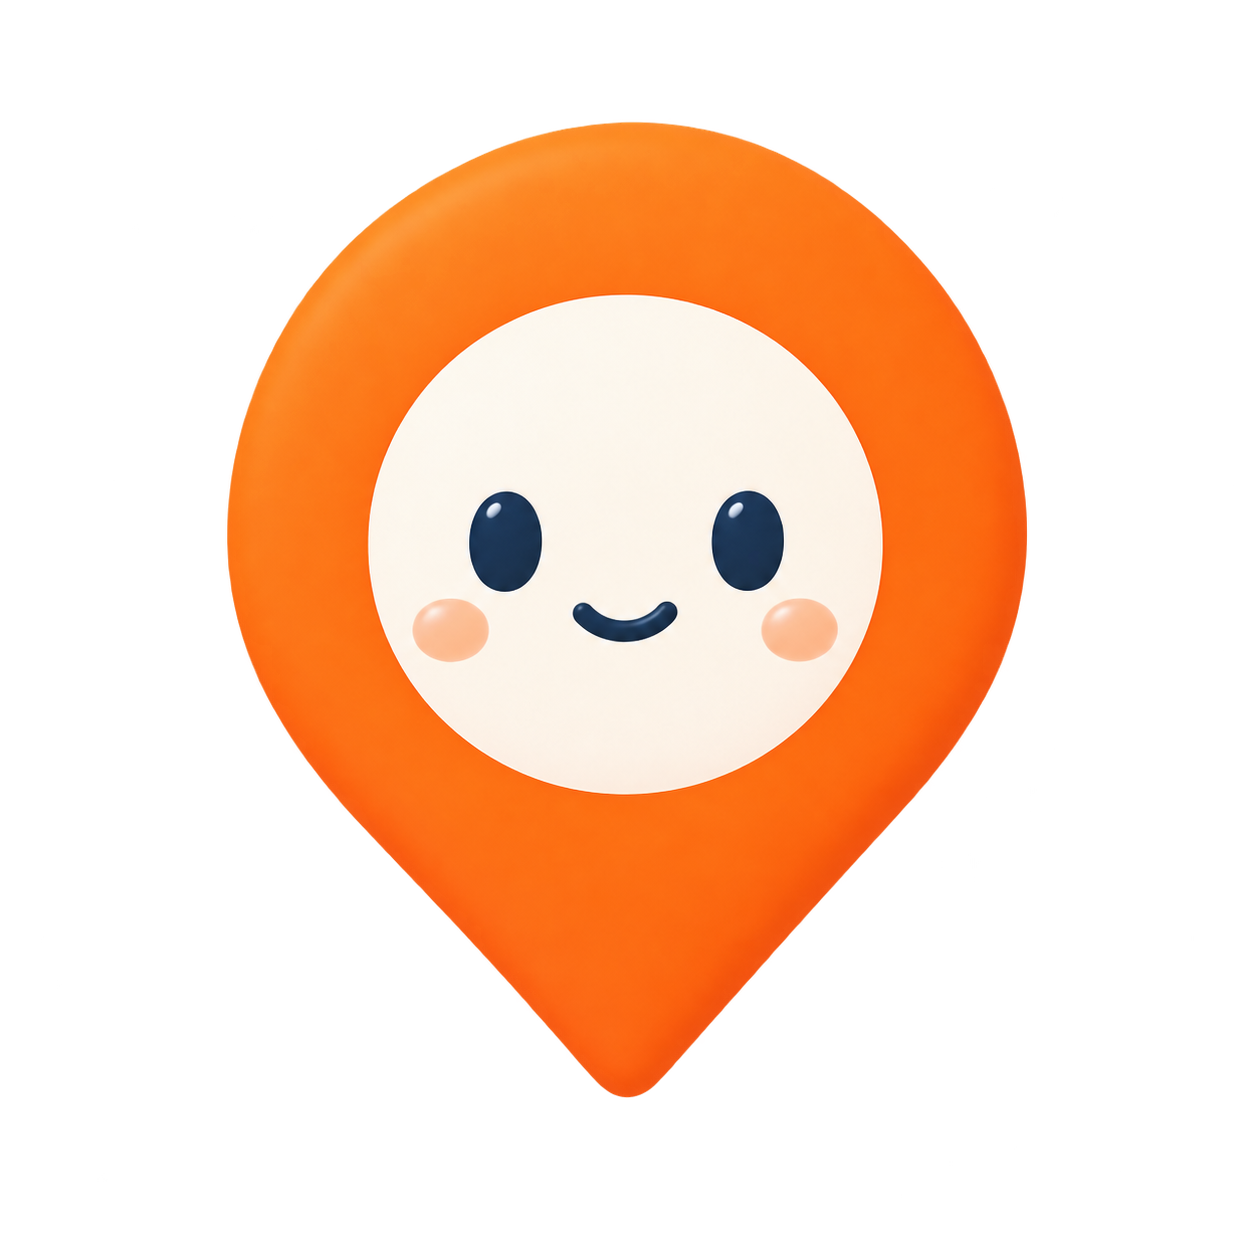
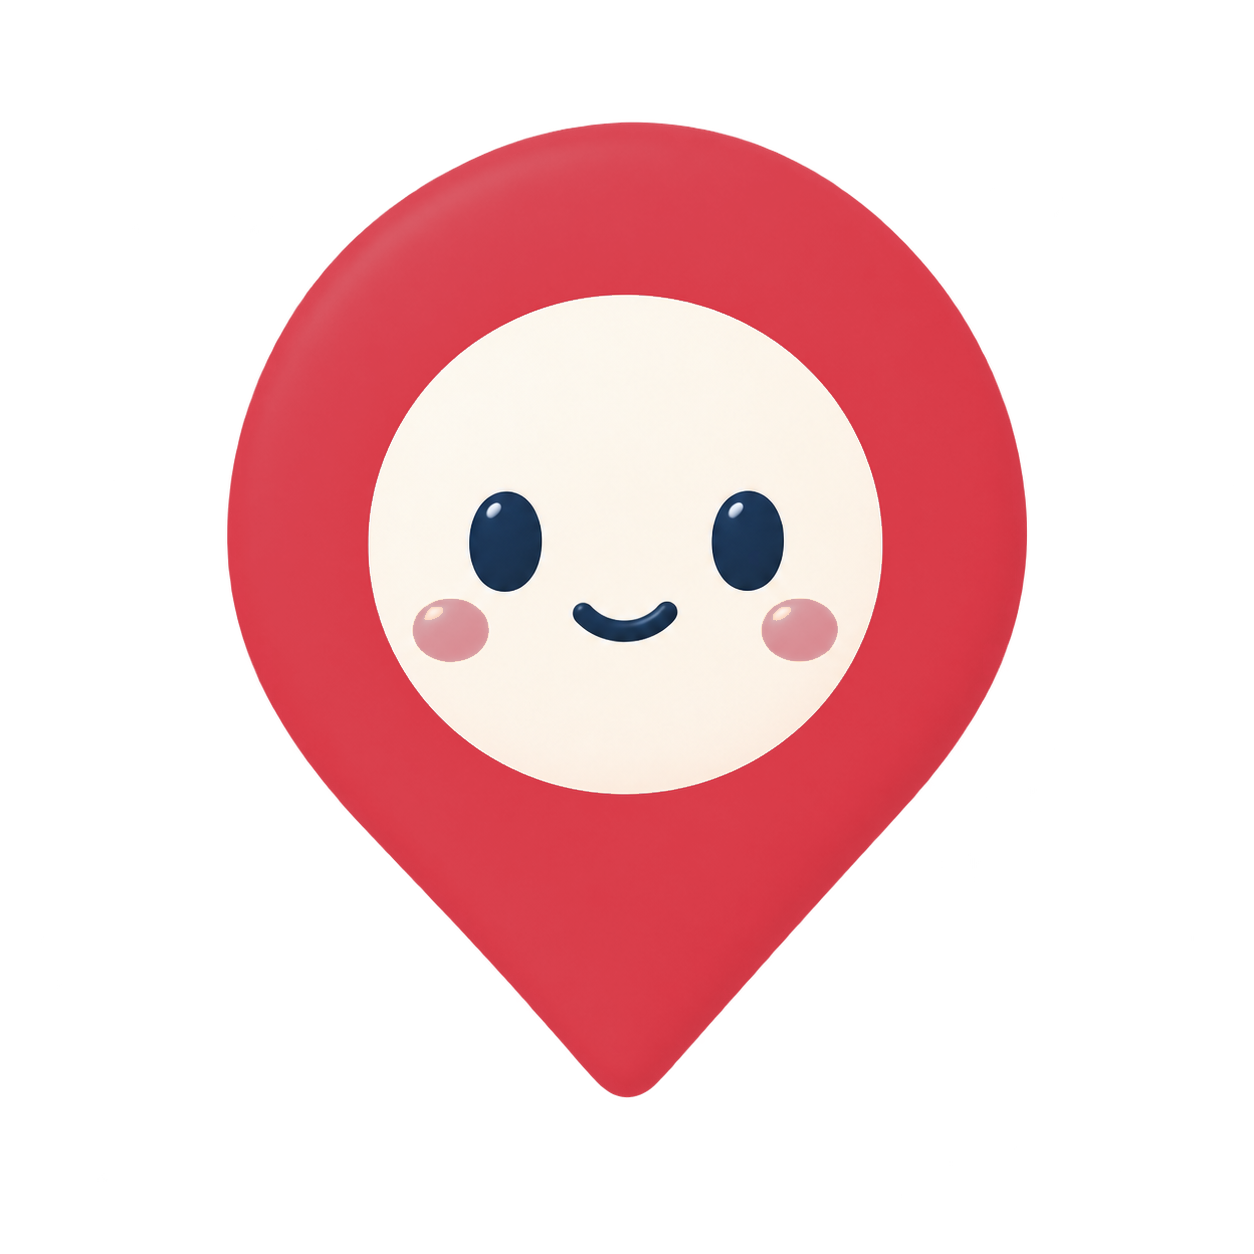
[S15P21E201-1343] fix: [FE] 그림에 구워진 옛 오렌지 — 마스코트는 다시 뽑고, 빈 화면 아이콘은 토큰이 덧입힌다
## 검사가 코드만 본다

배색 검사는 `.ts`·`.tsx` 만 읽는다. **그림 안에 구워진 색은 못 본다.** 그래서
오늘 로고의 핀은 동백 빨강으로 다시 뽑았는데, **같은 핀 모양인 마스코트는 오렌지로
남아 있었다.** 한 화면에 빨간 핀과 주황 핀이 같이 뜬다.

눈으로도 잘 안 잡힌다 — 둘이 한 화면에 나란히 오는 자리가 드물고, 따로 보면 둘 다
멀쩡해 보인다.

## 그림 29개를 전부 재서 고를 것을 갈랐다

옛 오렌지 대역이 섞인 그림이 29개였는데, **대부분은 음식 사진과 삽화**다. 그건
배색이 아니라 피사체의 색이라 건드리지 않는다. 배색인 것은 둘뿐이었다.

  마스코트 셋            몸통이 옛 오렌지 핀 (#FB6A10)
  내 여행 빈 화면 아이콘  픽셀 100%가 옛 브랜드 오렌지 (#F26532)

## 고치는 방법을 둘로 나눈 이유

**아이콘은 그림을 안 고쳤다.** 한 색짜리 실루엣이라 코드에서 색을 덧입힐 수 있다
(`tintColor: color.text.muted`). 그러면 **그림이 토큰을 따라오게 된다** — 다음
배색 전환 때 또 남지 않는다. 그림을 다시 뽑으면 그때 또 손으로 찾아야 한다.

**마스코트는 여러 색이라 덧입히면 뭉개진다.** 오렌지 대역만 골라 색조를 옮기고
음영은 비율로 보존했다 — 얼굴의 크림색, 남색 눈, 볼터치는 그대로 두고 몸통만 옮겼다.

실측: 바뀐 뒤 몸통 최빈색 #D93A48·#DB3B49·#DA3A48 (목표 #D83A48, HSV 왕복 반올림
오차 1~3). 셋 다 화면에 띄워 눈으로도 확인했다.

## 안 고친 것 — 다음 사람이 다시 재지 않게

`surface.card` 바탕에 선이 남은 style 이 105곳(파일 57개)이다. 시안은 「카드에 선
없음」이라고 했지만, 세어 보니 **대부분이 입력칸·칩**이고 시안은 그쪽 선은 허용한다
(`surface.field` = 입력 선·미선택 칩 선). 카드와 입력칸을 기계로 가를 방법이 없어
검사로 만들지 않았고, 한 자리만 고치면 들쭉날쭉해져서 그대로 뒀다. **확인 못 함.**

Changed region(s): [[0.1555, 0.0933, 0.8397, 0.8708]]

diff --git a/frontend/app/(tabs)/trips.tsx b/frontend/app/(tabs)/trips.tsx
@@ -194,7 +194,7 @@ const styles = StyleSheet.create({
   shell: { flex: 1, backgroundColor: color.brand.ivory }, canvas: { backgroundColor: color.brand.ivory },
   header: { marginTop: spacing[6], flexDirection: 'row', alignItems: 'flex-start', justifyContent: 'space-between', gap: spacing[3] }, headerCopy: { flex: 1, minWidth: 0 }, title: { marginTop: spacing[1], marginBottom: spacing[2] }, headerActions: { gap: spacing[2] }, newTrip: { width: 96, minHeight: 44, flexShrink: 0 },
   feedback: { minHeight: 48, marginTop: spacing[4], paddingHorizontal: spacing[4], borderRadius: radius.md, backgroundColor: color.brand.navy, flexDirection: 'row', alignItems: 'center', justifyContent: 'space-between', gap: spacing[3] }, state: { minHeight: 220, alignItems: 'center', justifyContent: 'center', gap: spacing[3] },
-  empty: { minHeight: 320, marginTop: spacing[6], padding: spacing[6], borderRadius: radius.lg, borderWidth: 1, borderColor: color.surface.field, backgroundColor: color.surface.card, alignItems: 'center', justifyContent: 'center', gap: spacing[3] }, emptyMark: { width: 68, height: 68, borderRadius: radius.full, backgroundColor: color.surface.tint, alignItems: 'center', justifyContent: 'center' }, emptyIcon: { width: 32, height: 32 }, center: { maxWidth: 300, textAlign: 'center' }, emptyCta: { minWidth: 180, marginTop: spacing[2], backgroundColor: color.brand.navy },
+  empty: { minHeight: 320, marginTop: spacing[6], padding: spacing[6], borderRadius: radius.lg, borderWidth: 1, borderColor: color.surface.field, backgroundColor: color.surface.card, alignItems: 'center', justifyContent: 'center', gap: spacing[3] }, emptyMark: { width: 68, height: 68, borderRadius: radius.full, backgroundColor: color.surface.tint, alignItems: 'center', justifyContent: 'center' }, emptyIcon: { width: 32, height: 32, tintColor: color.text.muted }, center: { maxWidth: 300, textAlign: 'center' }, emptyCta: { minWidth: 180, marginTop: spacing[2], backgroundColor: color.brand.navy },
   list: { marginTop: spacing[6], gap: spacing[3] }, card: { padding: spacing[4], borderRadius: radius.lg, borderWidth: 1, borderColor: color.surface.border, backgroundColor: color.surface.card, gap: spacing[3], shadowColor: color.brand.navy, shadowOpacity: 0.06, shadowRadius: 10, shadowOffset: { width: 0, height: 4 }, elevation: 2 }, cardPressed: { opacity: 0.72, transform: [{ scale: 0.99 }] }, cardTop: { flexDirection: 'row', alignItems: 'center', gap: spacing[3] }, cardCopy: { flex: 1, gap: spacing[1] }, meta: { flexDirection: 'row', flexWrap: 'wrap', gap: spacing[2] }, metaPill: { paddingHorizontal: spacing[3], paddingVertical: spacing[1], borderRadius: radius.full, backgroundColor: color.surface.soft },
   statusPillPending: { paddingHorizontal: spacing[3], paddingVertical: spacing[1], borderRadius: radius.full, backgroundColor: color.state.dangerBg, borderWidth: 1, borderColor: color.state.danger },
   cardActions: { flexDirection: 'row', alignItems: 'center', justifyContent: 'space-between', flexWrap: 'wrap', gap: spacing[2] },
